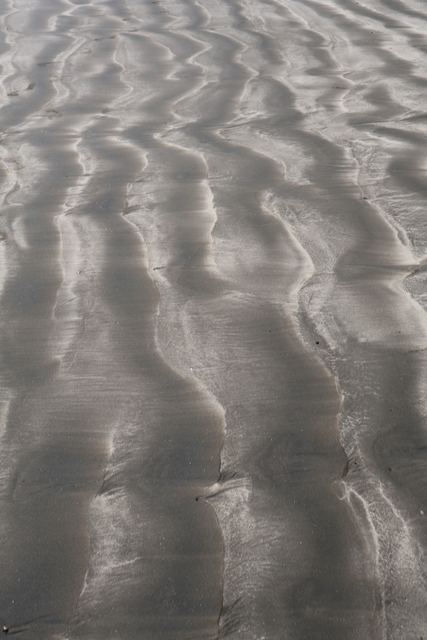
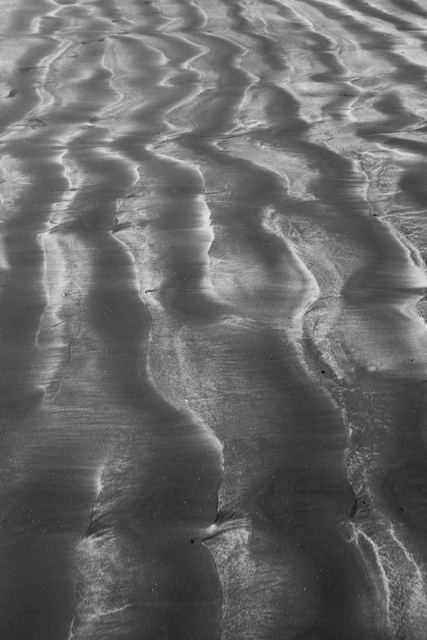
Foto nueva de Huellas
Claude-Session: https://claude.ai/code/session_01XampmMridXLsrxnCMyLnPp

diff --git a/index.html b/index.html
@@ -353,7 +353,7 @@ footer.bottom{padding:24px clamp(16px,3vw,48px) calc(24px + env(safe-area-inset-
   <button class="pv" id="lbPv" aria-label="Foto anterior"><svg width="20" height="20" viewBox="0 0 24 24" fill="none" stroke="currentColor" stroke-width="1.8" stroke-linecap="round" stroke-linejoin="round" aria-hidden="true"><path d="M15 6l-6 6 6 6"/></svg></button>
   <button class="nx" id="lbNx" aria-label="Foto siguiente"><svg width="20" height="20" viewBox="0 0 24 24" fill="none" stroke="currentColor" stroke-width="1.8" stroke-linecap="round" stroke-linejoin="round" aria-hidden="true"><path d="M9 6l6 6-6 6"/></svg></button>
 </div>
-<script id="data" type="application/json">{"works": [{"id": "ejemplo", "t": "Hojitas", "serie": "Jardin Mágico", "year": 2026, "when": "Primavera", "place": "Tigre, Buenos Aires, Argentina", "short": "Tigre", "country": "Argentina", "region": "Buenos Aires", "lat": -34.4264, "lon": -58.5796, "coords": "34°26′S 58°35′O", "fmt": "h", "ar": 1.5, "img": "img/img-8170.jpg", "sm": "img/img-8170-sm.jpg", "edge": "#1e1f12", "edgeD": "#18180e", "tones": ["verde"], "moods": ["calma", "movimiento"], "text": "", "story": ""}, {"id": "7m99oodxvws98zthk22s", "t": "Flore-SER", "serie": "Jardin Mágico", "year": 2026, "when": "Primavera", "place": "Tigre, Buenos Aires, Argentina", "short": "Tigre", "country": "Argentina", "region": "Buenos Aires", "lat": -34.4264, "lon": -58.5796, "coords": "34°26′S 58°35′O", "fmt": "h", "ar": 1.5, "img": "img/img-8211.jpg", "sm": "img/img-8211-sm.jpg", "edge": "#171514", "edgeD": "#121010", "tones": ["oscuro", "magenta"], "moods": ["movimiento"], "text": "Creciendo, en constante movimiento.", "story": ""}, {"id": "v6zu1fnsragvl1bk6tf3", "t": "Espíritu", "serie": "Jardin Mágico", "year": 2026, "when": "Primavera", "place": "Tigre, Buenos Aires, Argentina", "short": "Tigre", "country": "Argentina", "region": "Buenos Aires", "lat": -34.4264, "lon": -58.5796, "coords": "34°26′S 58°35′O", "fmt": "h", "ar": 1.5, "img": "img/img-8150.jpg", "sm": "img/img-8150-sm.jpg", "edge": "#131311", "edgeD": "#0f0f0d", "tones": ["oscuro"], "moods": ["movimiento"], "text": "", "story": ""}, {"id": "5v5q9rmd4a7l716ln7lj", "t": "Arcoiris", "serie": "Atardecer", "year": 2026, "when": "Atardecer", "place": "Santa Teresa, Costa Rica", "short": "Santa Teresa", "country": "Costa Rica", "region": "Costa Rica", "lat": 9.6436, "lon": -85.1683, "coords": "9°39′N 85°10′O", "fmt": "h", "ar": 1.5, "img": "img/img-4581.jpg", "sm": "img/img-4581-sm.jpg", "edge": "#a7675b", "edgeD": "#855248", "tones": ["cálido"], "moods": ["calma"], "text": "Observando, somos creadores de la obra", "story": ""}, {"id": "tcfef9lt981iuam9v10g", "t": "Expansión Naranja", "serie": "Atardecer", "year": 2026, "when": "", "place": "Santa Teresa, Costa Rica", "short": "Santa Teresa", "country": "Costa Rica", "region": "Costa Rica", "lat": 9.6436, "lon": -85.1683, "coords": "9°39′N 85°10′O", "fmt": "v", "ar": 0.6667, "img": "img/img-5085.jpg", "sm": "img/img-5085-sm.jpg", "edge": "#744016", "edgeD": "#5c3311", "tones": ["cálido"], "moods": ["calma"], "text": "", "story": ""}, {"id": "v93yowcrwlio0occ4g5k", "t": "Inmersos", "serie": "Atardecer", "year": null, "when": "", "place": "Playa Venao, Panamá", "short": "Playa Venao", "country": "Panamá", "region": "Panamá", "lat": 7.4337, "lon": -80.1914, "coords": "7°26′N 80°11′O", "fmt": "v", "ar": 0.6667, "img": "img/img-2910.jpg", "sm": "img/img-2910-sm.jpg", "edge": "#4d270b", "edgeD": "#3d1f08", "tones": ["cálido"], "moods": ["calma"], "text": "", "story": ""}, {"id": "wu83h3kot0ow2doi3nze", "t": "Infinidad Acuatica", "serie": "Mar", "year": null, "when": "", "place": "San Blas, Panamá", "short": "San Blas", "country": "Panamá", "region": "Panamá", "lat": 9.5594, "lon": -78.9481, "coords": "9°34′N 78°57′O", "fmt": "h", "ar": 1.5, "img": "img/img-2301.jpg", "sm": "img/img-2301-sm.jpg", "edge": "#5a646e", "edgeD": "#485058", "tones": ["azul"], "moods": ["inmensidad", "nostalgia"], "text": "", "story": ""}, {"id": "d8xsnhwkibspm1gs7ye7", "t": "Infimos", "serie": "Mar", "year": 2025, "when": "", "place": "San Francisco, California, EE.UU.", "short": "San Francisco", "country": "Estados Unidos", "region": "California", "lat": 37.7599, "lon": -122.5107, "coords": "37°46′N 122°31′O", "fmt": "v", "ar": 0.6667, "img": "img/img-1695.jpg", "sm": "img/img-1695-sm.jpg", "edge": "#5f6669", "edgeD": "#4c5154", "tones": ["azul"], "moods": ["inmensidad"], "text": "Bailar con confianza, ante tanta inmensidad.", "story": ""}, {"id": "segvv79u0fh8eog51isr", "t": "Navegar", "serie": "Mar", "year": 2026, "when": "", "place": "San Blas, Panamá", "short": "San Blas", "country": "Panamá", "region": "Panamá", "lat": 9.5594, "lon": -78.9481, "coords": "9°34′N 78°57′O", "fmt": "v", "ar": 0.6667, "img": "img/img-2220.jpg", "sm": "img/img-2220-sm.jpg", "edge": "#8a9db3", "edgeD": "#6e7d8f", "tones": ["azul"], "moods": ["nostalgia"], "text": "", "story": ""}, {"id": "l3hwykl52erjsmdvd342", "t": "Huellas", "serie": "Playa", "year": null, "when": "", "place": "Puerto Viejo, Costa Rica", "short": "Puerto Viejo", "country": "Costa Rica", "region": "Costa Rica", "lat": 9.6563, "lon": -82.7539, "coords": "9°39′N 82°45′O", "fmt": "v", "ar": 0.6667, "img": "img/img-2618.jpg", "sm": "img/img-2618-sm.jpg", "edge": "#817d79", "edgeD": "#676460", "tones": ["arena"], "moods": ["silencio"], "text": "", "story": ""}, {"id": "2hh2komrnwdbq5esv0x3", "t": "Evolución", "serie": "Portal", "year": null, "when": "", "place": "Playa Venao, Panamá", "short": "Playa Venao", "country": "Panamá", "region": "Panamá", "lat": 7.4337, "lon": -80.1914, "coords": "7°26′N 80°11′O", "fmt": "h", "ar": 1.5, "img": "img/img-2631.jpg", "sm": "img/img-2631-sm.jpg", "edge": "#3f3935", "edgeD": "#322d2a", "tones": ["oscuro"], "moods": ["silencio"], "text": "", "story": ""}, {"id": "1cru13s1yb15cx7n9nme", "t": "Versiones que conviven", "serie": "Postal", "year": null, "when": "", "place": "Río de Janeiro, Brasil", "short": "Río de Janeiro", "country": "Brasil", "region": "Brasil", "lat": -22.9068, "lon": -43.1729, "coords": "22°54′S 43°10′O", "fmt": "h", "ar": 1.5, "img": "img/img-6921.jpg", "sm": "img/img-6921-sm.jpg", "edge": "#47494d", "edgeD": "#383a3d", "tones": ["oscuro"], "moods": ["silencio"], "text": "", "story": ""}, {"id": "6kw532zf5z31ys35lora", "t": "Tantos ángulos", "serie": "Postal", "year": null, "when": "", "place": "Golden Gate, California, EE.UU.", "short": "Golden Gate", "country": "Estados Unidos", "region": "California", "lat": 37.8199, "lon": -122.4783, "coords": "37°49′N 122°29′O", "fmt": "v", "ar": 0.6667, "img": "img/img-1708.jpg", "sm": "img/img-1708-sm.jpg", "edge": "#575658", "edgeD": "#454446", "tones": ["cálido"], "moods": ["calma", "inmensidad", "nostalgia"], "text": "", "story": ""}, {"id": "krk9gi2kcvnhruij2sq1", "t": "Permeable", "serie": "Portal", "year": null, "when": "", "place": "Isla Tortuga, Costa Rica", "short": "Isla Tortuga", "country": "Costa Rica", "region": "Costa Rica", "lat": 9.7736, "lon": -84.8895, "coords": "9°46′N 84°53′O", "fmt": "v", "ar": 0.6667, "img": "img/img-3407.jpg", "sm": "img/img-3407-sm.jpg", "edge": "#474948", "edgeD": "#383a39", "tones": ["azul"], "moods": [], "text": "", "story": ""}, {"id": "nv7otj81e26y8iph5oax", "t": "Pausa Rutera", "serie": "Montaña", "year": 2026, "when": "", "place": "Tafí del Valle, Tucumán, Argentina", "short": "Tafí del Valle", "country": "Argentina", "region": "Tucumán", "lat": -26.8527, "lon": -65.7098, "coords": "26°51′S 65°43′O", "fmt": "h", "ar": 1.5, "img": "img/img-6454.jpg", "sm": "img/img-6454-sm.jpg", "edge": "#667b8f", "edgeD": "#516272", "tones": ["cálido"], "moods": ["silencio"], "text": "Me encanta el impulso de las balizas y frenar en ese km", "story": ""}, {"id": "36y1cy4sliuee3xus6vy", "t": "Paraíso Vintage", "serie": "Postal", "year": null, "when": "", "place": "Santa Teresa, Costa Rica", "short": "Santa Teresa", "country": "Costa Rica", "region": "Costa Rica", "lat": 9.6436, "lon": -85.1683, "coords": "9°39′N 85°10′O", "fmt": "h", "ar": 1.5, "img": "img/img-4106.jpg", "sm": "img/img-4106-sm.jpg", "edge": "#9d9d9d", "edgeD": "#7d7d7d", "tones": ["oscuro"], "moods": [], "text": "", "story": ""}, {"id": "9xvunk0iii1dsx0mnog8", "t": "Agua-rela", "serie": "Agua", "year": 2026, "when": "", "place": "Tigre, Buenos Aires, Argentina", "short": "Tigre", "country": "Argentina", "region": "Buenos Aires", "lat": -34.4264, "lon": -58.5796, "coords": "34°26′S 58°35′O", "fmt": "h", "ar": 1.5, "img": "img/img-8106-4.jpg", "sm": "img/img-8106-4-sm.jpg", "edge": "#3b3b3b", "edgeD": "#2f2f2f", "tones": ["oscuro"], "moods": [], "text": "", "story": ""}, {"id": "kypawh97mbgtj49nok9p", "t": "Ciudad Emblemática", "serie": "Postal", "year": 2026, "when": "", "place": "Obelisco, Buenos Aires, Argentina", "short": "Obelisco", "country": "Argentina", "region": "Buenos Aires", "lat": -34.6037, "lon": -58.3816, "coords": "34°36′S 58°23′O", "fmt": "v", "ar": 0.6666, "img": "img/img-8616.jpg", "sm": "img/img-8616-sm.jpg", "edge": "#393939", "edgeD": "#2d2d2d", "tones": ["oscuro"], "moods": [], "text": "Entre tanta novedad, historia y movimiento, soy turista de mi icónica ciudad natal.", "story": ""}], "config": {"name": "Josefina Goñi", "bio": "El atlas de mi viaje evolutivo, captura diversos rincones del mundo que me resonaron alguna vez. \nUn pedacito del mundo en mi mapa personal. ", "whatsapp": "+5491153483183", "instagram": "josefinagoni__", "email": "josefinagoni02@gmail.com", "tagline": ""}, "sets": [{"name": "Díptico Jardin Mágico", "desc": "Hojitas + Flore-SER · horizontal 75×50", "works": [0, 1], "orient": "h", "frame": "negro", "mat": "sin"}, {"name": "Díptico Atardecer", "desc": "Expansión Naranja + Inmersos · vertical 50×75", "works": [4, 5], "orient": "v", "frame": "roble", "mat": "blanco"}], "tones": [{"id": null, "label": "Todos los tonos", "c": "conic-gradient(#4f7f95,#c9ae83,#c9683f,#a8437a,#6f8a5a,#26303a,#d9dedb,#4f7f95)"}, {"id": "azul", "label": "Azul", "c": "#4f7f95"}, {"id": "arena", "label": "Arena", "c": "#c9ae83"}, {"id": "cálido", "label": "Cálido", "c": "#c9683f"}, {"id": "magenta", "label": "Magenta", "c": "#a8437a"}, {"id": "verde", "label": "Verde", "c": "#6f8a5a"}, {"id": "oscuro", "label": "Oscuro", "c": "#26303a"}], "extent": {"lat0": 46, "lat1": -44, "lon0": -132.51069999999999, "lon1": -33.1729}, "oceans": [{"name": "Océano Pacífico", "lat": -8, "lon": -112}, {"name": "Océano Atlántico", "lat": 24, "lon": -68}]}</script>
+<script id="data" type="application/json">{"works": [{"id": "ejemplo", "t": "Hojitas", "serie": "Jardin Mágico", "year": 2026, "when": "Primavera", "place": "Tigre, Buenos Aires, Argentina", "short": "Tigre", "country": "Argentina", "region": "Buenos Aires", "lat": -34.4264, "lon": -58.5796, "coords": "34°26′S 58°35′O", "fmt": "h", "ar": 1.5, "img": "img/img-8170.jpg", "sm": "img/img-8170-sm.jpg", "edge": "#1e1f12", "edgeD": "#18180e", "tones": ["verde"], "moods": ["calma", "movimiento"], "text": "", "story": ""}, {"id": "7m99oodxvws98zthk22s", "t": "Flore-SER", "serie": "Jardin Mágico", "year": 2026, "when": "Primavera", "place": "Tigre, Buenos Aires, Argentina", "short": "Tigre", "country": "Argentina", "region": "Buenos Aires", "lat": -34.4264, "lon": -58.5796, "coords": "34°26′S 58°35′O", "fmt": "h", "ar": 1.5, "img": "img/img-8211.jpg", "sm": "img/img-8211-sm.jpg", "edge": "#171514", "edgeD": "#121010", "tones": ["oscuro", "magenta"], "moods": ["movimiento"], "text": "Creciendo, en constante movimiento.", "story": ""}, {"id": "v6zu1fnsragvl1bk6tf3", "t": "Espíritu", "serie": "Jardin Mágico", "year": 2026, "when": "Primavera", "place": "Tigre, Buenos Aires, Argentina", "short": "Tigre", "country": "Argentina", "region": "Buenos Aires", "lat": -34.4264, "lon": -58.5796, "coords": "34°26′S 58°35′O", "fmt": "h", "ar": 1.5, "img": "img/img-8150.jpg", "sm": "img/img-8150-sm.jpg", "edge": "#131311", "edgeD": "#0f0f0d", "tones": ["oscuro"], "moods": ["movimiento"], "text": "", "story": ""}, {"id": "5v5q9rmd4a7l716ln7lj", "t": "Arcoiris", "serie": "Atardecer", "year": 2026, "when": "Atardecer", "place": "Santa Teresa, Costa Rica", "short": "Santa Teresa", "country": "Costa Rica", "region": "Costa Rica", "lat": 9.6436, "lon": -85.1683, "coords": "9°39′N 85°10′O", "fmt": "h", "ar": 1.5, "img": "img/img-4581.jpg", "sm": "img/img-4581-sm.jpg", "edge": "#a7675b", "edgeD": "#855248", "tones": ["cálido"], "moods": ["calma"], "text": "Observando, somos creadores de la obra", "story": ""}, {"id": "tcfef9lt981iuam9v10g", "t": "Expansión Naranja", "serie": "Atardecer", "year": 2026, "when": "", "place": "Santa Teresa, Costa Rica", "short": "Santa Teresa", "country": "Costa Rica", "region": "Costa Rica", "lat": 9.6436, "lon": -85.1683, "coords": "9°39′N 85°10′O", "fmt": "v", "ar": 0.6667, "img": "img/img-5085.jpg", "sm": "img/img-5085-sm.jpg", "edge": "#744016", "edgeD": "#5c3311", "tones": ["cálido"], "moods": ["calma"], "text": "", "story": ""}, {"id": "v93yowcrwlio0occ4g5k", "t": "Inmersos", "serie": "Atardecer", "year": null, "when": "", "place": "Playa Venao, Panamá", "short": "Playa Venao", "country": "Panamá", "region": "Panamá", "lat": 7.4337, "lon": -80.1914, "coords": "7°26′N 80°11′O", "fmt": "v", "ar": 0.6667, "img": "img/img-2910.jpg", "sm": "img/img-2910-sm.jpg", "edge": "#4d270b", "edgeD": "#3d1f08", "tones": ["cálido"], "moods": ["calma"], "text": "", "story": ""}, {"id": "wu83h3kot0ow2doi3nze", "t": "Infinidad Acuatica", "serie": "Mar", "year": null, "when": "", "place": "San Blas, Panamá", "short": "San Blas", "country": "Panamá", "region": "Panamá", "lat": 9.5594, "lon": -78.9481, "coords": "9°34′N 78°57′O", "fmt": "h", "ar": 1.5, "img": "img/img-2301.jpg", "sm": "img/img-2301-sm.jpg", "edge": "#5a646e", "edgeD": "#485058", "tones": ["azul"], "moods": ["inmensidad", "nostalgia"], "text": "", "story": ""}, {"id": "d8xsnhwkibspm1gs7ye7", "t": "Infimos", "serie": "Mar", "year": 2025, "when": "", "place": "San Francisco, California, EE.UU.", "short": "San Francisco", "country": "Estados Unidos", "region": "California", "lat": 37.7599, "lon": -122.5107, "coords": "37°46′N 122°31′O", "fmt": "v", "ar": 0.6667, "img": "img/img-1695.jpg", "sm": "img/img-1695-sm.jpg", "edge": "#5f6669", "edgeD": "#4c5154", "tones": ["azul"], "moods": ["inmensidad"], "text": "Bailar con confianza, ante tanta inmensidad.", "story": ""}, {"id": "segvv79u0fh8eog51isr", "t": "Navegar", "serie": "Mar", "year": 2026, "when": "", "place": "San Blas, Panamá", "short": "San Blas", "country": "Panamá", "region": "Panamá", "lat": 9.5594, "lon": -78.9481, "coords": "9°34′N 78°57′O", "fmt": "v", "ar": 0.6667, "img": "img/img-2220.jpg", "sm": "img/img-2220-sm.jpg", "edge": "#8a9db3", "edgeD": "#6e7d8f", "tones": ["azul"], "moods": ["nostalgia"], "text": "", "story": ""}, {"id": "l3hwykl52erjsmdvd342", "t": "Huellas", "serie": "Playa", "year": null, "when": "", "place": "Puerto Viejo, Costa Rica", "short": "Puerto Viejo", "country": "Costa Rica", "region": "Costa Rica", "lat": 9.6563, "lon": -82.7539, "coords": "9°39′N 82°45′O", "fmt": "v", "ar": 0.6667, "img": "img/img-2618.jpg", "sm": "img/img-2618-sm.jpg", "edge": "#686868", "edgeD": "#535353", "tones": ["arena"], "moods": ["silencio"], "text": "", "story": ""}, {"id": "2hh2komrnwdbq5esv0x3", "t": "Evolución", "serie": "Portal", "year": null, "when": "", "place": "Playa Venao, Panamá", "short": "Playa Venao", "country": "Panamá", "region": "Panamá", "lat": 7.4337, "lon": -80.1914, "coords": "7°26′N 80°11′O", "fmt": "h", "ar": 1.5, "img": "img/img-2631.jpg", "sm": "img/img-2631-sm.jpg", "edge": "#3f3935", "edgeD": "#322d2a", "tones": ["oscuro"], "moods": ["silencio"], "text": "", "story": ""}, {"id": "1cru13s1yb15cx7n9nme", "t": "Versiones que conviven", "serie": "Postal", "year": null, "when": "", "place": "Río de Janeiro, Brasil", "short": "Río de Janeiro", "country": "Brasil", "region": "Brasil", "lat": -22.9068, "lon": -43.1729, "coords": "22°54′S 43°10′O", "fmt": "h", "ar": 1.5, "img": "img/img-6921.jpg", "sm": "img/img-6921-sm.jpg", "edge": "#47494d", "edgeD": "#383a3d", "tones": ["oscuro"], "moods": ["silencio"], "text": "", "story": ""}, {"id": "6kw532zf5z31ys35lora", "t": "Tantos ángulos", "serie": "Postal", "year": null, "when": "", "place": "Golden Gate, California, EE.UU.", "short": "Golden Gate", "country": "Estados Unidos", "region": "California", "lat": 37.8199, "lon": -122.4783, "coords": "37°49′N 122°29′O", "fmt": "v", "ar": 0.6667, "img": "img/img-1708.jpg", "sm": "img/img-1708-sm.jpg", "edge": "#575658", "edgeD": "#454446", "tones": ["cálido"], "moods": ["calma", "inmensidad", "nostalgia"], "text": "", "story": ""}, {"id": "krk9gi2kcvnhruij2sq1", "t": "Permeable", "serie": "Portal", "year": null, "when": "", "place": "Isla Tortuga, Costa Rica", "short": "Isla Tortuga", "country": "Costa Rica", "region": "Costa Rica", "lat": 9.7736, "lon": -84.8895, "coords": "9°46′N 84°53′O", "fmt": "v", "ar": 0.6667, "img": "img/img-3407.jpg", "sm": "img/img-3407-sm.jpg", "edge": "#474948", "edgeD": "#383a39", "tones": ["azul"], "moods": [], "text": "", "story": ""}, {"id": "nv7otj81e26y8iph5oax", "t": "Pausa Rutera", "serie": "Montaña", "year": 2026, "when": "", "place": "Tafí del Valle, Tucumán, Argentina", "short": "Tafí del Valle", "country": "Argentina", "region": "Tucumán", "lat": -26.8527, "lon": -65.7098, "coords": "26°51′S 65°43′O", "fmt": "h", "ar": 1.5, "img": "img/img-6454.jpg", "sm": "img/img-6454-sm.jpg", "edge": "#667b8f", "edgeD": "#516272", "tones": ["cálido"], "moods": ["silencio"], "text": "Me encanta el impulso de las balizas y frenar en ese km", "story": ""}, {"id": "36y1cy4sliuee3xus6vy", "t": "Paraíso Vintage", "serie": "Postal", "year": null, "when": "", "place": "Santa Teresa, Costa Rica", "short": "Santa Teresa", "country": "Costa Rica", "region": "Costa Rica", "lat": 9.6436, "lon": -85.1683, "coords": "9°39′N 85°10′O", "fmt": "h", "ar": 1.5, "img": "img/img-4106.jpg", "sm": "img/img-4106-sm.jpg", "edge": "#9d9d9d", "edgeD": "#7d7d7d", "tones": ["oscuro"], "moods": [], "text": "", "story": ""}, {"id": "9xvunk0iii1dsx0mnog8", "t": "Agua-rela", "serie": "Agua", "year": 2026, "when": "", "place": "Tigre, Buenos Aires, Argentina", "short": "Tigre", "country": "Argentina", "region": "Buenos Aires", "lat": -34.4264, "lon": -58.5796, "coords": "34°26′S 58°35′O", "fmt": "h", "ar": 1.5, "img": "img/img-8106-4.jpg", "sm": "img/img-8106-4-sm.jpg", "edge": "#3b3b3b", "edgeD": "#2f2f2f", "tones": ["oscuro"], "moods": [], "text": "", "story": ""}, {"id": "kypawh97mbgtj49nok9p", "t": "Ciudad Emblemática", "serie": "Postal", "year": 2026, "when": "", "place": "Obelisco, Buenos Aires, Argentina", "short": "Obelisco", "country": "Argentina", "region": "Buenos Aires", "lat": -34.6037, "lon": -58.3816, "coords": "34°36′S 58°23′O", "fmt": "v", "ar": 0.6666, "img": "img/img-8616.jpg", "sm": "img/img-8616-sm.jpg", "edge": "#393939", "edgeD": "#2d2d2d", "tones": ["oscuro"], "moods": [], "text": "Entre tanta novedad, historia y movimiento, soy turista de mi icónica ciudad natal.", "story": ""}], "config": {"name": "Josefina Goñi", "bio": "El atlas de mi viaje evolutivo, captura diversos rincones del mundo que me resonaron alguna vez. \nUn pedacito del mundo en mi mapa personal. ", "whatsapp": "+5491153483183", "instagram": "josefinagoni__", "email": "josefinagoni02@gmail.com", "tagline": ""}, "sets": [{"name": "Díptico Jardin Mágico", "desc": "Hojitas + Flore-SER · horizontal 75×50", "works": [0, 1], "orient": "h", "frame": "negro", "mat": "sin"}, {"name": "Díptico Atardecer", "desc": "Expansión Naranja + Inmersos · vertical 50×75", "works": [4, 5], "orient": "v", "frame": "roble", "mat": "blanco"}], "tones": [{"id": null, "label": "Todos los tonos", "c": "conic-gradient(#4f7f95,#c9ae83,#c9683f,#a8437a,#6f8a5a,#26303a,#d9dedb,#4f7f95)"}, {"id": "azul", "label": "Azul", "c": "#4f7f95"}, {"id": "arena", "label": "Arena", "c": "#c9ae83"}, {"id": "cálido", "label": "Cálido", "c": "#c9683f"}, {"id": "magenta", "label": "Magenta", "c": "#a8437a"}, {"id": "verde", "label": "Verde", "c": "#6f8a5a"}, {"id": "oscuro", "label": "Oscuro", "c": "#26303a"}], "extent": {"lat0": 46, "lat1": -44, "lon0": -132.51069999999999, "lon1": -33.1729}, "oceans": [{"name": "Océano Pacífico", "lat": -8, "lon": -112}, {"name": "Océano Atlántico", "lat": 24, "lon": -68}]}</script>
 <script>
 (() => {
   const D = JSON.parse(document.getElementById('data').textContent);
